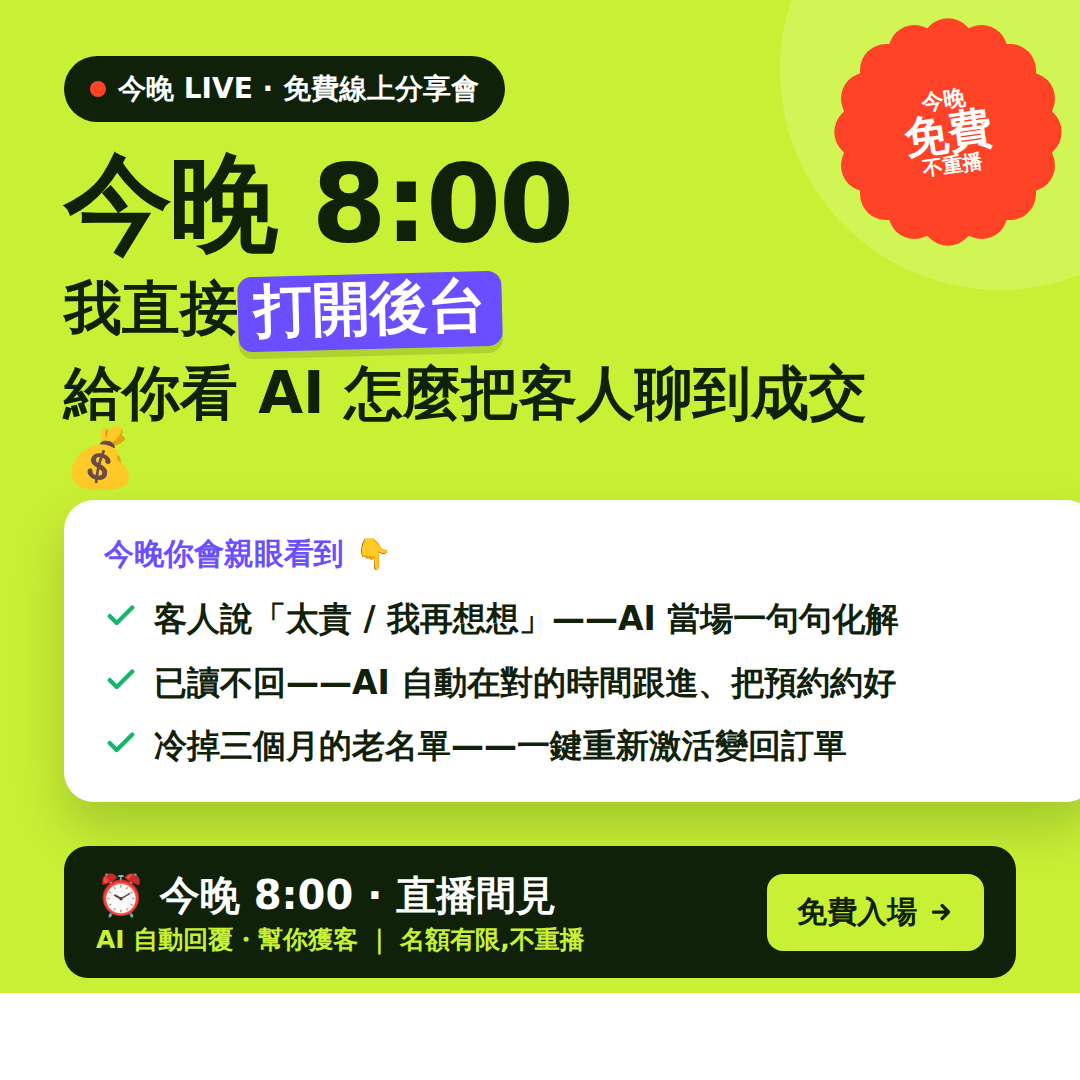
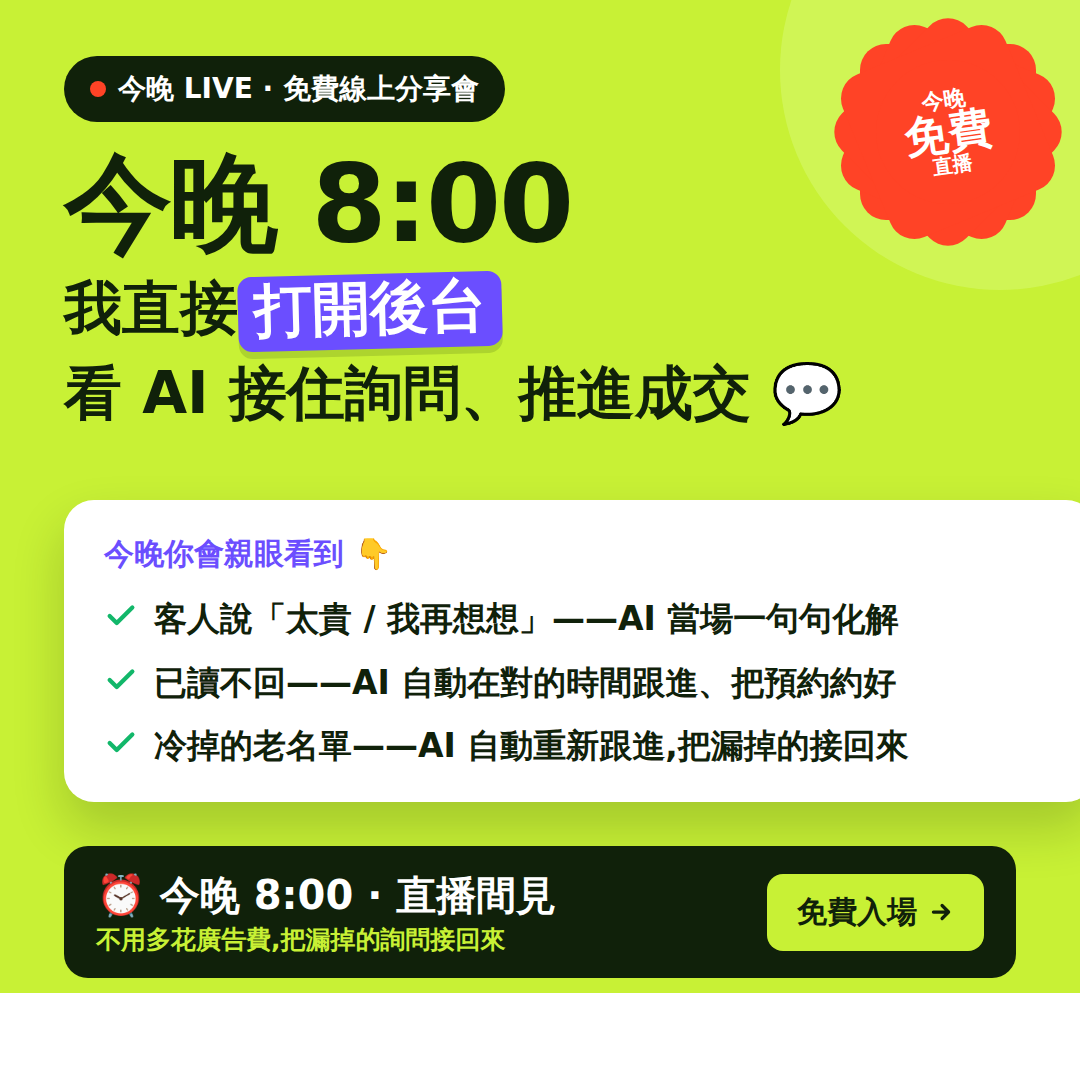
reminder image v2: no price/package, grounded claims per deck
Claude-Session: https://claude.ai/code/session_01TnNai4QbAyJKQc5BZP935Z

diff --git a/design/Reminder.dc.html b/design/Reminder.dc.html
@@ -36,7 +36,7 @@
     <div style="position: absolute; inset: 16px; background: #ff4326; border-radius: 50%; display: flex; flex-direction: column; align-items: center; justify-content: center; color: #ffffff; transform: rotate(-8deg);">
       <div style="font-weight: 700; font-size: 22px; line-height: 1;">今晚</div>
       <div style="font-weight: 900; font-size: 44px; line-height: 1.02;">免費</div>
-      <div style="font-weight: 700; font-size: 20px; line-height: 1;">不重播</div>
+      <div style="font-weight: 700; font-size: 20px; line-height: 1;">直播</div>
     </div>
   </div>
 
@@ -46,7 +46,7 @@
     <div style="margin-top: 16px; font-weight: 900; font-size: 58px; line-height: 1.12; color: #10210a;">
       我直接<span style="display: inline-block; background: #6b4eff; color: #ffffff; padding: 2px 16px 8px; border-radius: 14px; box-shadow: 0 7px 0 rgba(16,33,10,0.14); transform: rotate(-1.5deg);">打開後台</span>
     </div>
-    <div style="margin-top: 12px; font-weight: 900; font-size: 58px; line-height: 1.12; color: #10210a;">給你看 AI 怎麼把客人聊到成交 💰</div>
+    <div style="margin-top: 12px; font-weight: 900; font-size: 58px; line-height: 1.12; color: #10210a;">看 AI 接住詢問、推進成交 💬</div>
   </div>
 
   <!-- bullets card -->
@@ -63,7 +63,7 @@
       </div>
       <div style="display: flex; align-items: flex-start; gap: 16px;">
         <svg width="34" height="34" viewBox="0 0 24 24" fill="none" stroke="#12b76a" stroke-width="3" stroke-linecap="round" stroke-linejoin="round" style="flex-shrink:0; margin-top:2px;"><path d="M20 6 9 17l-5-5"/></svg>
-        <div style="font-weight: 700; font-size: 33px; line-height: 1.32; color: #10210a;">冷掉三個月的老名單——一鍵重新激活變回訂單</div>
+        <div style="font-weight: 700; font-size: 33px; line-height: 1.32; color: #10210a;">冷掉的老名單——AI 自動重新跟進,把漏掉的接回來</div>
       </div>
     </div>
   </div>
@@ -72,7 +72,7 @@
   <div style="position: absolute; left: 64px; right: 64px; top: 846px; display: flex; align-items: center; gap: 18px; background: #10210a; border-radius: 24px; padding: 22px 32px;">
     <div style="flex-grow: 1;">
       <div style="font-weight: 900; font-size: 40px; color: #ffffff;">⏰ 今晚 8:00 · 直播間見</div>
-      <div style="font-weight: 700; font-size: 25px; color: #c8f135;">AI 自動回覆・幫你獲客 ｜ 名額有限,不重播</div>
+      <div style="font-weight: 700; font-size: 25px; color: #c8f135;">不用多花廣告費,把漏掉的詢問接回來</div>
     </div>
     <div style="display: flex; align-items: center; gap: 11px; background: #c8f135; color: #10210a; font-weight: 900; font-size: 30px; padding: 18px 30px; border-radius: 16px;">
       免費入場
